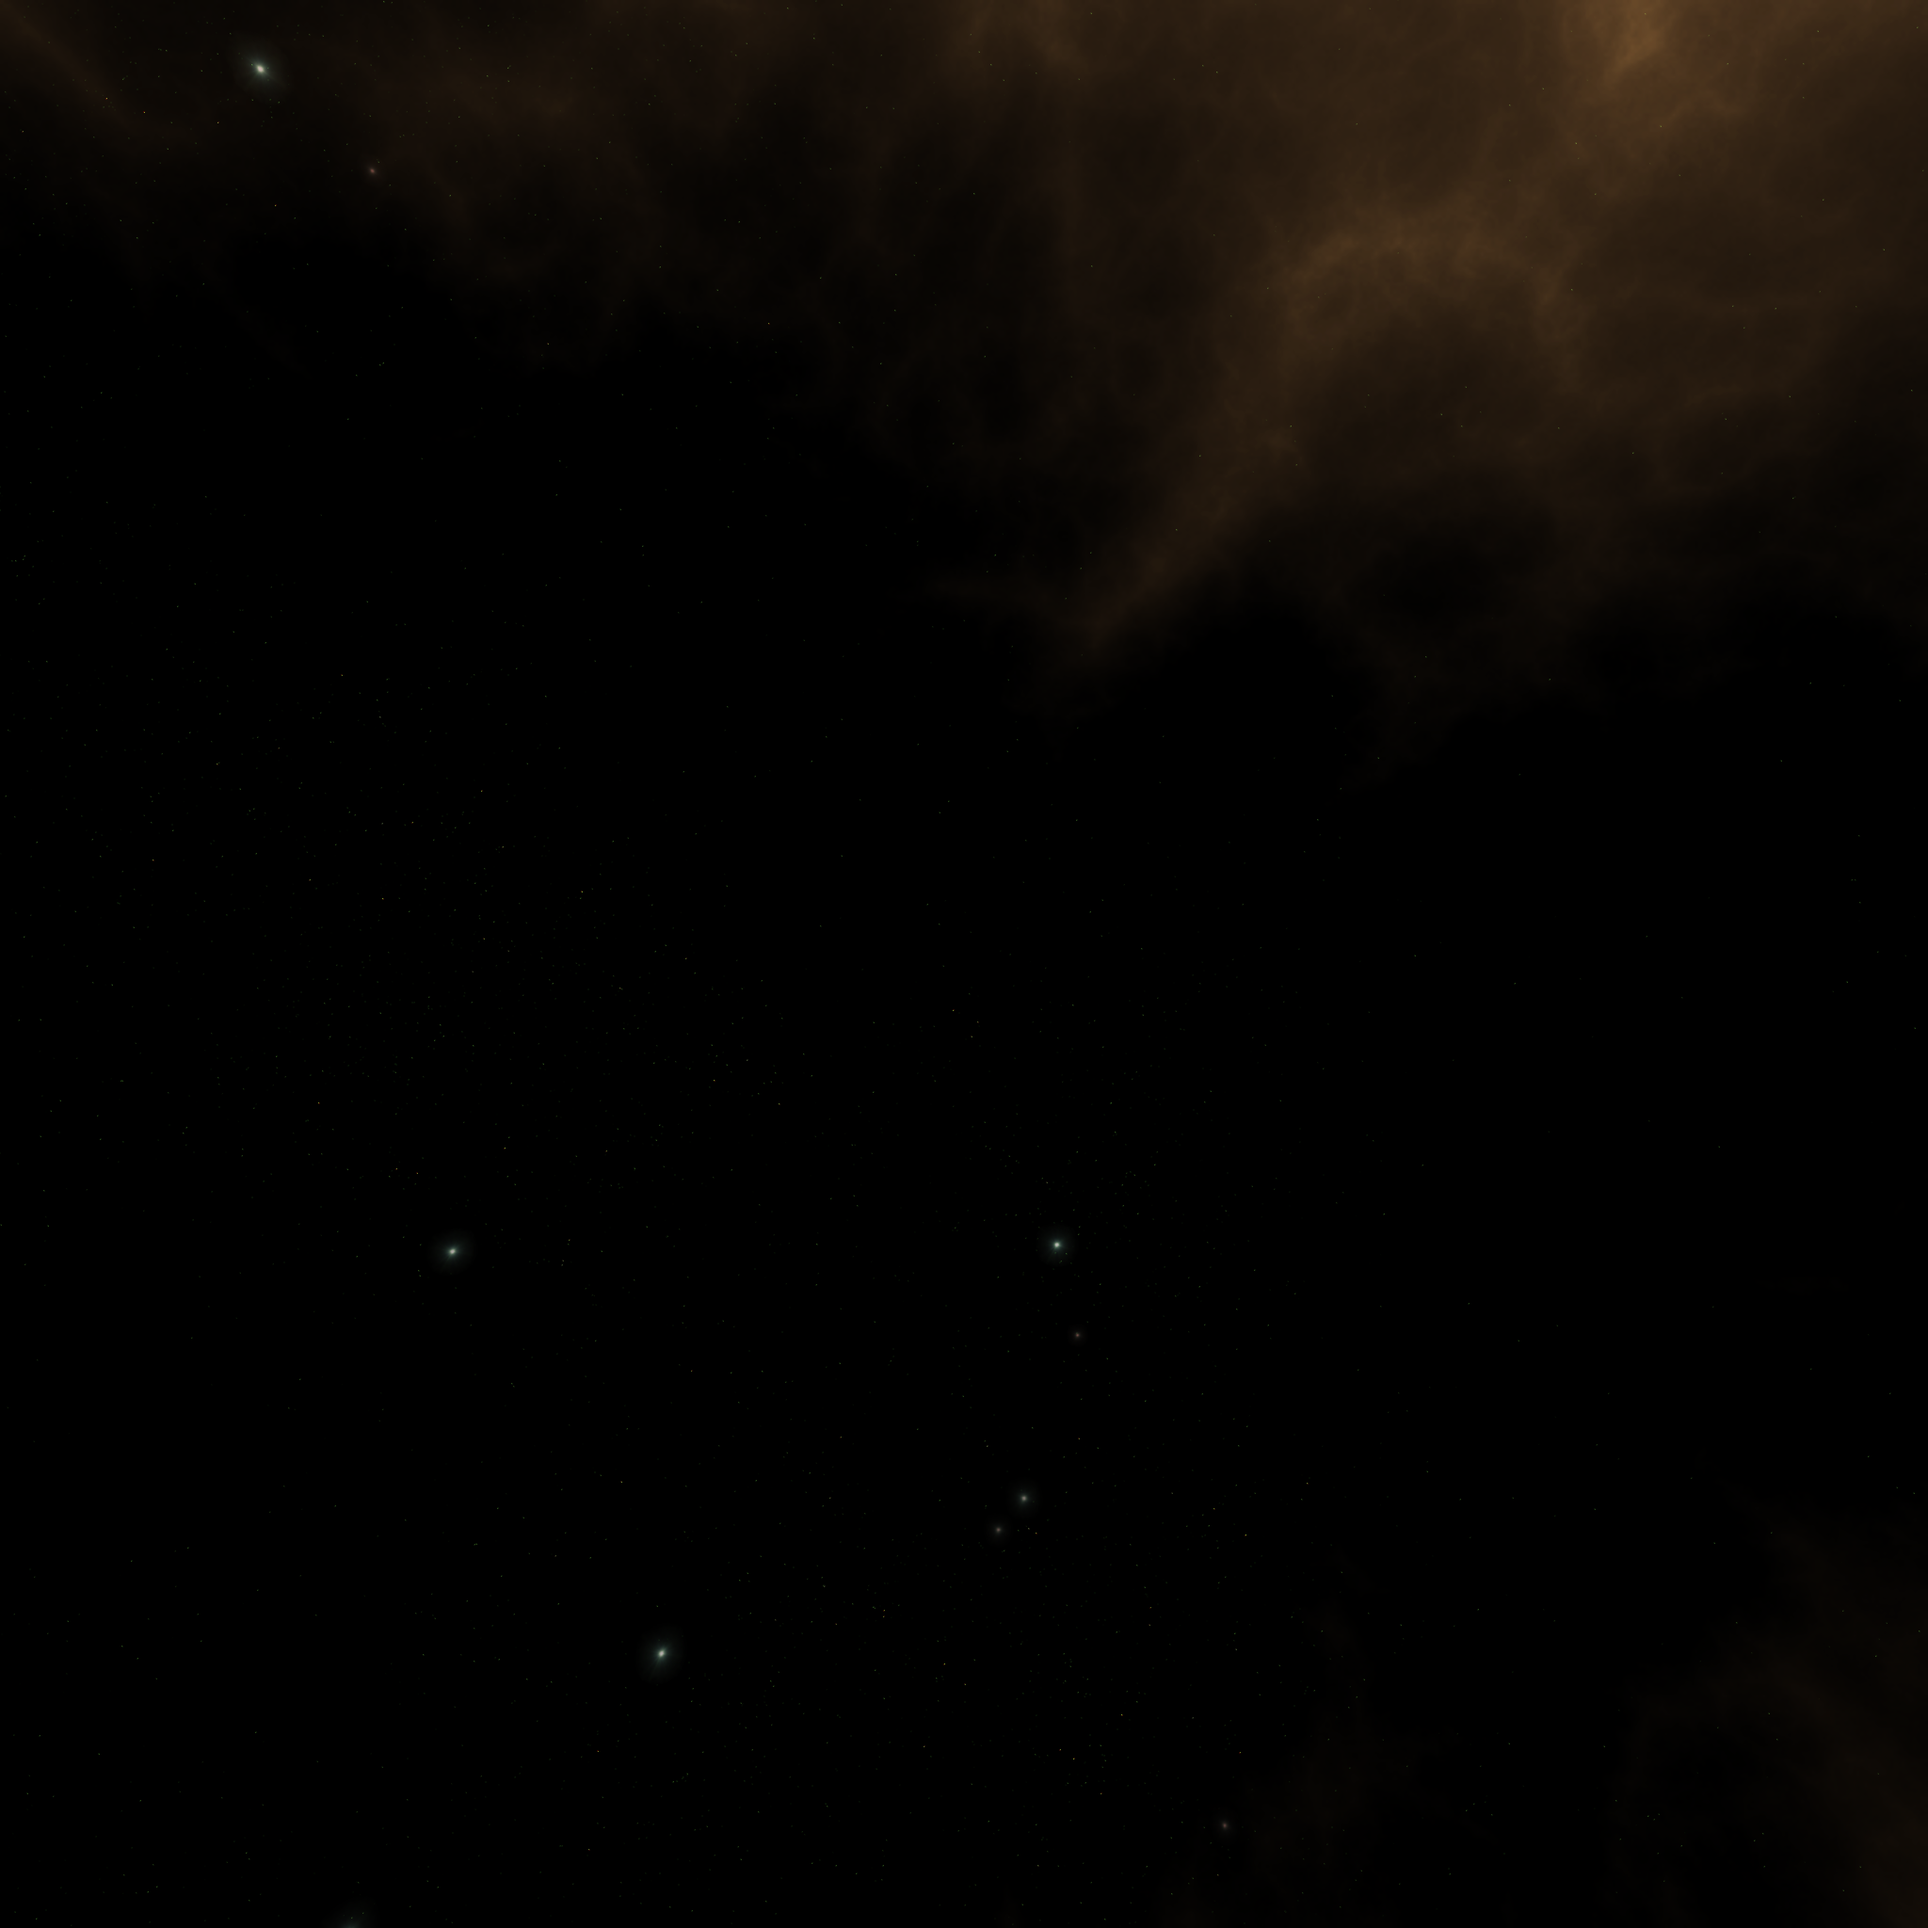
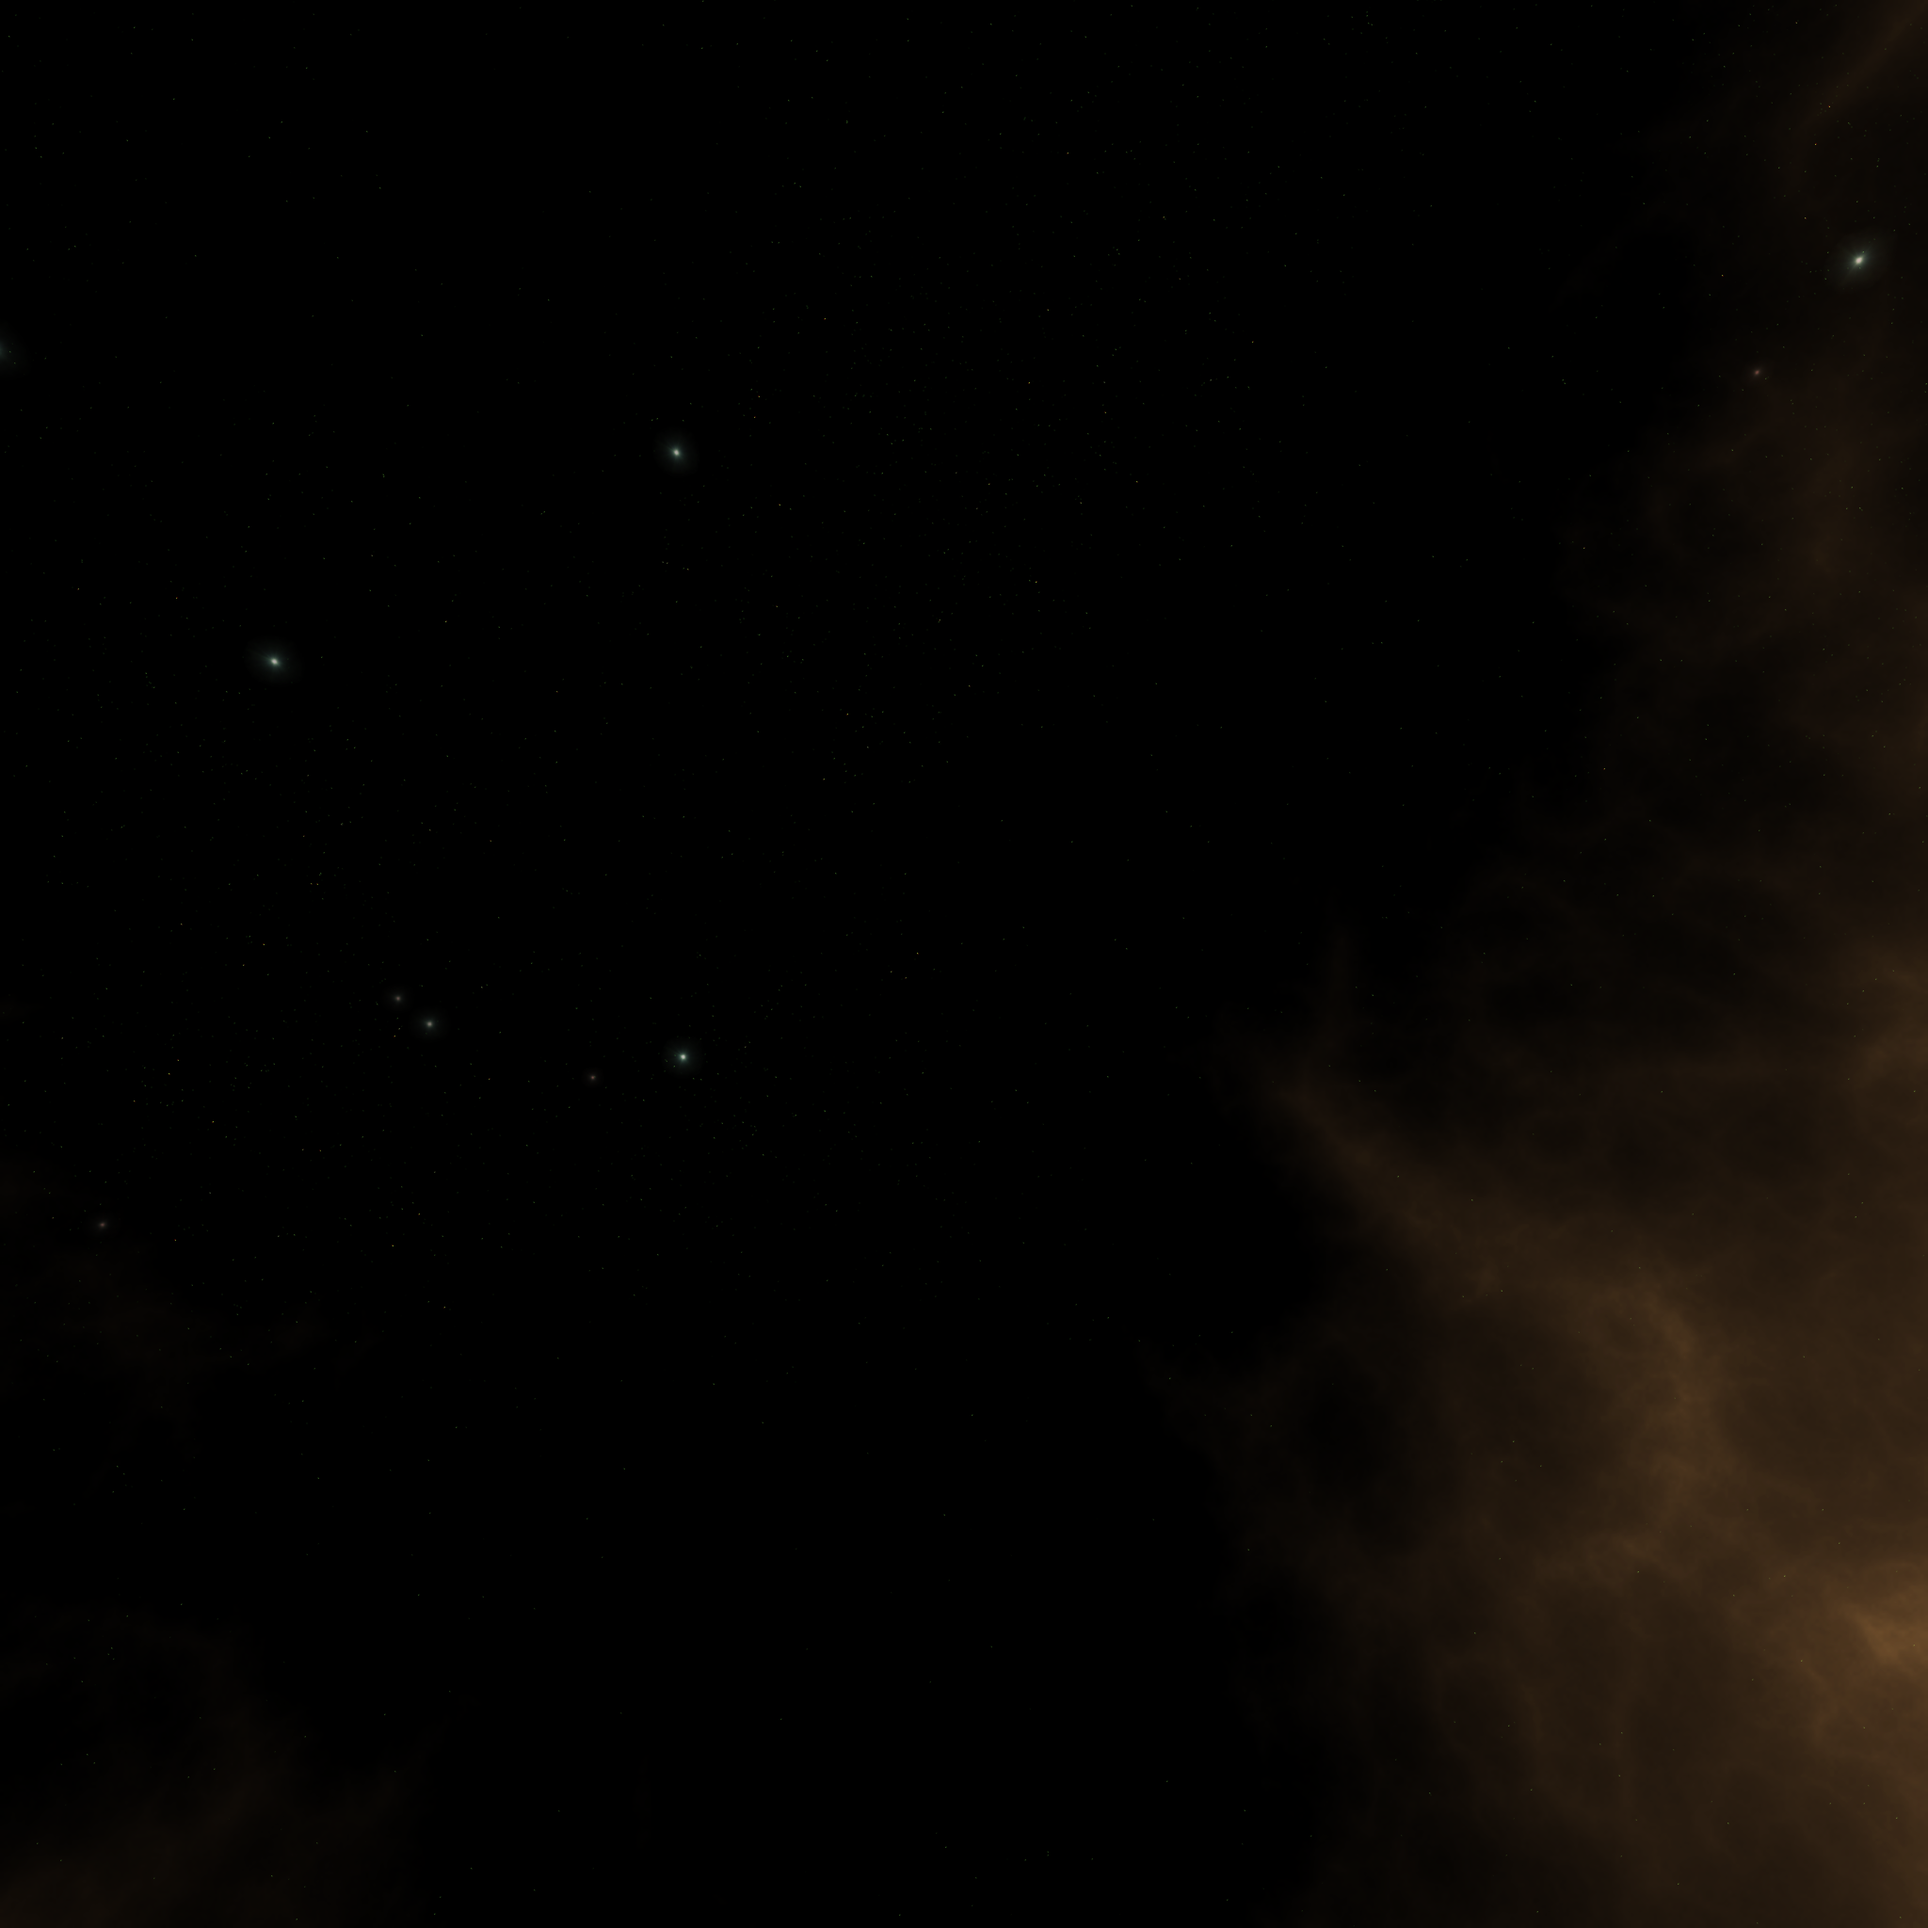
fixed skybox2 faces

diff --git a/src/components/threeScene/ThreeScene.tsx b/src/components/threeScene/ThreeScene.tsx
@@ -101,12 +101,12 @@ function ThreeScene({ currentPage }: Props) {
                 // textureLoader.load("./skybox/space_dn.png"),
                 // textureLoader.load("./skybox/space_rt.png"),
                 // textureLoader.load("./skybox/space_lf.png")
-                textureLoader.load("./skybox1/1.png"),
-                textureLoader.load("./skybox1/2.png"),
-                textureLoader.load("./skybox1/3.png"),
-                textureLoader.load("./skybox1/4.png"),
-                textureLoader.load("./skybox1/5.png"),
-                textureLoader.load("./skybox1/6.png")
+                textureLoader.load("./skybox2/1.png"),
+                textureLoader.load("./skybox2/3.png"),
+                textureLoader.load("./skybox2/4.png"),//
+                textureLoader.load("./skybox2/2.png"),
+                textureLoader.load("./skybox2/5.png"),
+                textureLoader.load("./skybox2/6.png")//
             ].map(t => new THREE.MeshBasicMaterial({ map: t }));
             skyboxMaterials.forEach(m => m.side = THREE.BackSide)
 
